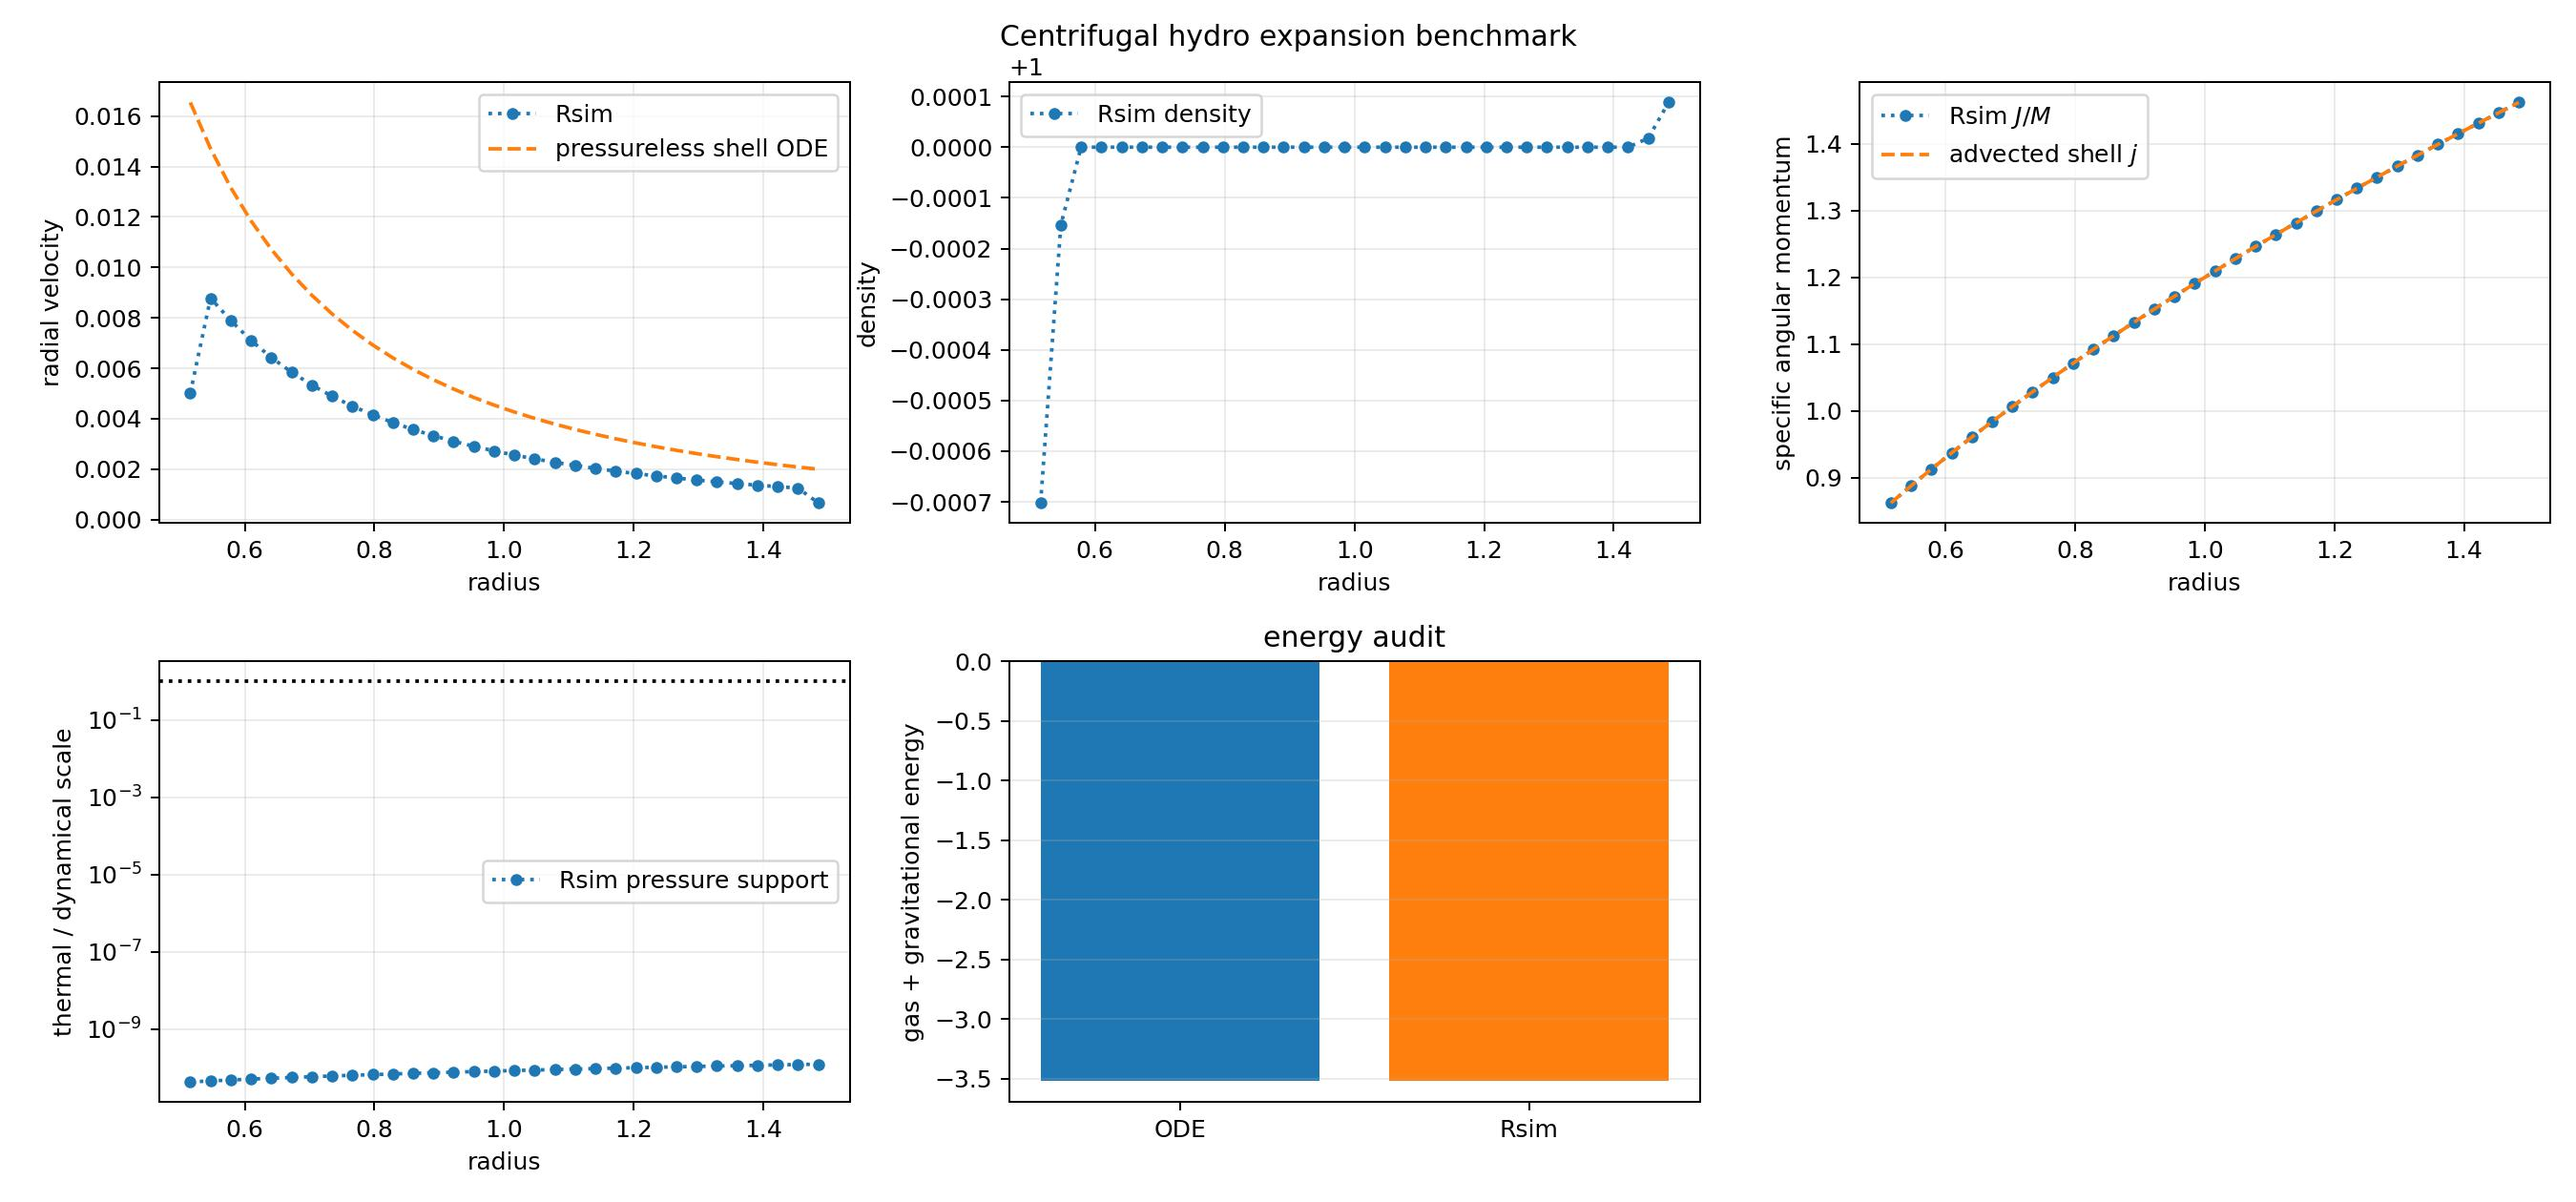
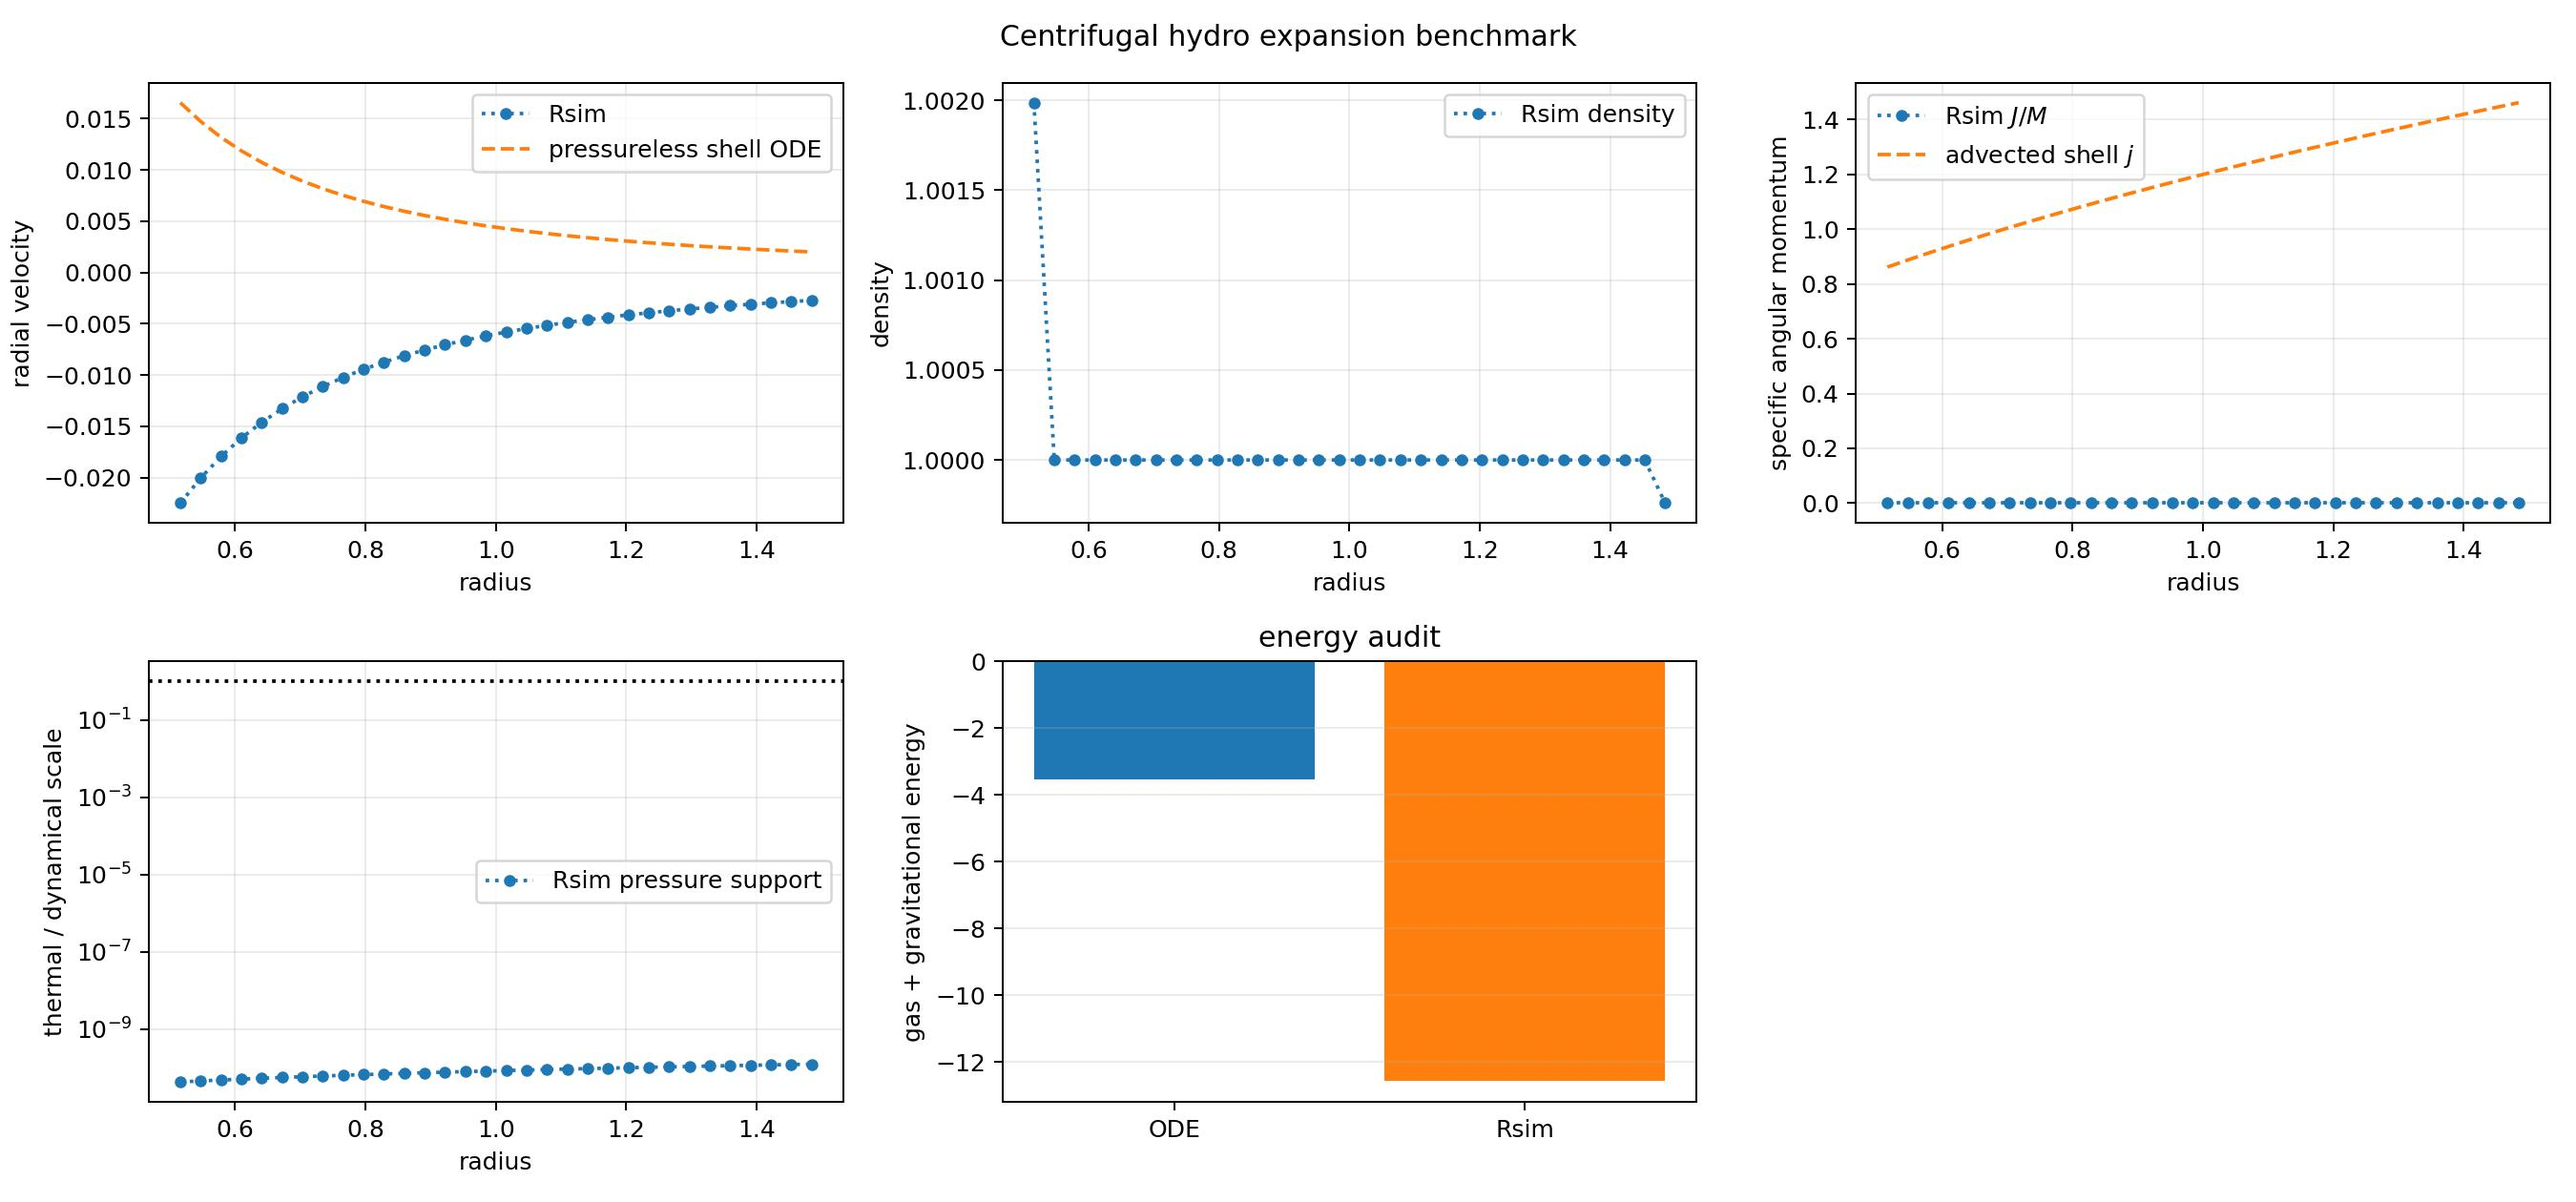
G* examples

diff --git a/example/EinsteinDeSitterTopHatGrowth1D/einstein_de_sitter_top_hat_growth1d.py b/example/EinsteinDeSitterTopHatGrowth1D/einstein_de_sitter_top_hat_growth1d.py
@@ -23,6 +23,7 @@ import numpy as np
 import radhydropy.io as rio
 from example import example_utils as eu
 from example.EinsteinDeSitterTopHatGrowth1D import tools as et
+from radhydropy.cosmology import EinsteinDeSitter
 from radhydropy.units import CodeUnits, quantity_to_value
 
 DEFAULT_CONFIG = Path(__file__).with_name("einstein_de_sitter_top_hat_growth1d.yaml")
@@ -35,7 +36,7 @@ def main(config_filename=DEFAULT_CONFIG):
     example = config.get("example", {})
     eu.clean_previous_outputs(config)
     units = CodeUnits.from_mapping(config["par"]["units"]["CodeUnits"])
-    cosmology = et.EinsteinDeSitter.from_code_units(
+    cosmology = EinsteinDeSitter.from_code_units(
         units,
         t_ref=quantity_to_value(config["par"]["cosmology"]["cosmology_t_ref"], units.time_unit),
         a_ref=float(config["par"]["cosmology"]["cosmology_a_ref"]),
@@ -68,7 +69,9 @@ def main(config_filename=DEFAULT_CONFIG):
         )
     ):
         raise RuntimeError("supercomoving startup clocks disagree after SetInitFluid")
-    sim.par.cosmology = cosmology
+    sim.par.set_cosmology_model(cosmology)
+    sim.par.dark_matter_background_fraction = 0.0
+    sim.par.gas_background_fraction = 1.0
     physical = slice(sim.par.mesh.ghost_cells, sim.par.mesh.ghost_cells + sim.par.mesh.grid_cells)
     float(
         np.sum(sim.fluid.rho_comoving_code[physical] * sim.mesh.volume_comoving_code[physical]),
@@ -85,7 +88,7 @@ def main(config_filename=DEFAULT_CONFIG):
         ),
     )
     initial_tau = float(np.asarray(sim.fluid.tau_supercomoving_code).flat[0])
-    initial_a = sim.par.cosmology.scale_factor_from_supercomoving(initial_tau)
+    initial_a = sim.par.cosmology.model.scale_factor_from_supercomoving(initial_tau)
     initial_delta = float(initial_condition["overdensity"])
     history = {
         "scale_factor_dimensionless": [],
@@ -95,15 +98,15 @@ def main(config_filename=DEFAULT_CONFIG):
 
     def record(state):
         tau = float(np.asarray(state.fluid.tau_supercomoving_code).flat[0])
-        a = state.par.cosmology.scale_factor_from_supercomoving(tau)
+        a = state.par.cosmology.model.scale_factor_from_supercomoving(tau)
         radius_enclosed_comoving_code = et.enclosed_mass_radius(
             state.mesh.boundary_comoving_code[physical.start : physical.stop + 1],
             state.fluid.rho_comoving_code[physical],
             state.mesh.volume_comoving_code[physical],
             mass_target_comoving_code,
         )
-        time_cosmic_code = state.par.cosmology.cosmic_time_from_supercomoving(tau)
-        rho_background = state.par.cosmology.background_density(time_cosmic_code) * a**3
+        time_cosmic_code = state.par.cosmology.model.cosmic_time_from_supercomoving(tau)
+        rho_background = state.par.cosmology.model.background_density(time_cosmic_code) * a**3
         mean_density_comoving_code = (
             3.0 * mass_target_comoving_code / (4.0 * np.pi * radius_enclosed_comoving_code**3)
         )
@@ -125,9 +128,9 @@ def main(config_filename=DEFAULT_CONFIG):
         final.par.mesh.ghost_cells + final.par.mesh.grid_cells,
     )
     final_tau = float(np.asarray(final.fluid.tau_supercomoving_code).flat[0])
-    final_a = final.par.cosmology.scale_factor_from_supercomoving(final_tau)
-    final_cosmic_time = final.par.cosmology.cosmic_time_from_supercomoving(final_tau)
-    final_background = final.par.cosmology.background_density(final_cosmic_time) * final_a**3
+    final_a = final.par.cosmology.model.scale_factor_from_supercomoving(final_tau)
+    final_cosmic_time = final.par.cosmology.model.cosmic_time_from_supercomoving(final_tau)
+    final_background = final.par.cosmology.model.background_density(final_cosmic_time) * final_a**3
     radius_enclosed_final_comoving_code = et.enclosed_mass_radius(
         final.mesh.boundary_comoving_code[final_physical.start : final_physical.stop + 1],
         final.fluid.rho_comoving_code[final_physical],

diff --git a/example/EinsteinDeSitterTopHatGravity1D/einstein_de_sitter_top_hat_gravity1d.py b/example/EinsteinDeSitterTopHatGravity1D/einstein_de_sitter_top_hat_gravity1d.py
@@ -23,6 +23,7 @@ import numpy as np
 import radhydropy.io as rio
 from example import example_utils as eu
 from example.EinsteinDeSitterTopHatGravity1D import tools as et
+from radhydropy.cosmology import EinsteinDeSitter
 from radhydropy.gravity import Gravity
 from radhydropy.units import CodeUnits, quantity_to_value
 
@@ -36,7 +37,7 @@ def main(config_filename=DEFAULT_CONFIG):
     config.get("example", {})
     eu.clean_previous_outputs(config)
     units = CodeUnits.from_mapping(config["par"]["units"]["CodeUnits"])
-    cosmology = et.EinsteinDeSitter.from_code_units(
+    cosmology = EinsteinDeSitter.from_code_units(
         units,
         t_ref=quantity_to_value(config["par"]["cosmology"]["cosmology_t_ref"], units.time_unit),
         a_ref=float(config["par"]["cosmology"]["cosmology_a_ref"]),
@@ -73,7 +74,9 @@ def main(config_filename=DEFAULT_CONFIG):
         )
     ):
         raise RuntimeError("supercomoving startup clocks disagree after SetInitFluid")
-    sim.par.cosmology = cosmology
+    sim.par.set_cosmology_model(cosmology)
+    sim.par.dark_matter_background_fraction = 0.0
+    sim.par.gas_background_fraction = 1.0
     sim.par.gravity = Gravity(
         selfgravity=True,
         externalgravity=False,
@@ -89,16 +92,16 @@ def main(config_filename=DEFAULT_CONFIG):
     physical = slice(sim.par.mesh.ghost_cells, sim.par.mesh.ghost_cells + sim.par.mesh.grid_cells)
     radius_comoving_code = np.asarray(sim.mesh.x_comoving_code[physical], dtype=float)
     tau = float(np.asarray(sim.par.tau_supercomoving_code).flat[0])
-    a = sim.par.cosmology.scale_factor_from_supercomoving(tau)
-    time_cosmic_code = sim.par.cosmology.cosmic_time_from_supercomoving(tau)
-    rho_background = sim.par.cosmology.background_density(time_cosmic_code)
+    a = sim.par.cosmology.model.scale_factor_from_supercomoving(tau)
+    time_cosmic_code = sim.par.cosmology.model.cosmic_time_from_supercomoving(tau)
+    rho_background = sim.par.cosmology.model.background_density(time_cosmic_code)
     analytic = et.top_hat_acceleration(
         radius_comoving_code,
         quantity_to_value(initial_condition["radius_perturbation_comoving"], units.length_unit),
         float(initial_condition["overdensity"]),
         rho_background * a**3,
         a,
-        sim.par.cosmology.gravitational_constant,
+        sim.par.cosmology.model.gravitational_constant,
     )
     comparison = slice(1, None)
     error = np.abs(

diff --git a/example/GasCentrifugalHydroExpansion1D/gas_centrifugal_hydro_expansion1d.py b/example/GasCentrifugalHydroExpansion1D/gas_centrifugal_hydro_expansion1d.py
@@ -235,7 +235,11 @@ def main(config_filename=CONFIG):
     ode_total_energy = np.sum(reference["energy_proper_code"])
     energy_error = float(abs(saved_total_energy - ode_total_energy))
     energy_scale = max(abs(float(ode_total_energy)), 1.0e-12)
-    if energy_error / energy_scale > 2.0e-3:  # noqa: PLR2004
+    # An isothermal EOS supplies pressure through its temperature closure and
+    # deliberately does not evolve thermal energy.  Its total-energy value is
+    # therefore a diagnostic only; the pressureless shell-energy comparison
+    # is a strict audit for polytropic configurations.
+    if not sim.fluid.eos.is_isothermal and energy_error / energy_scale > 2.0e-3:  # noqa: PLR2004
         raise RuntimeError(
             "hydro expansion total-energy audit failed: relative error %.6g"
             % (energy_error / energy_scale),
